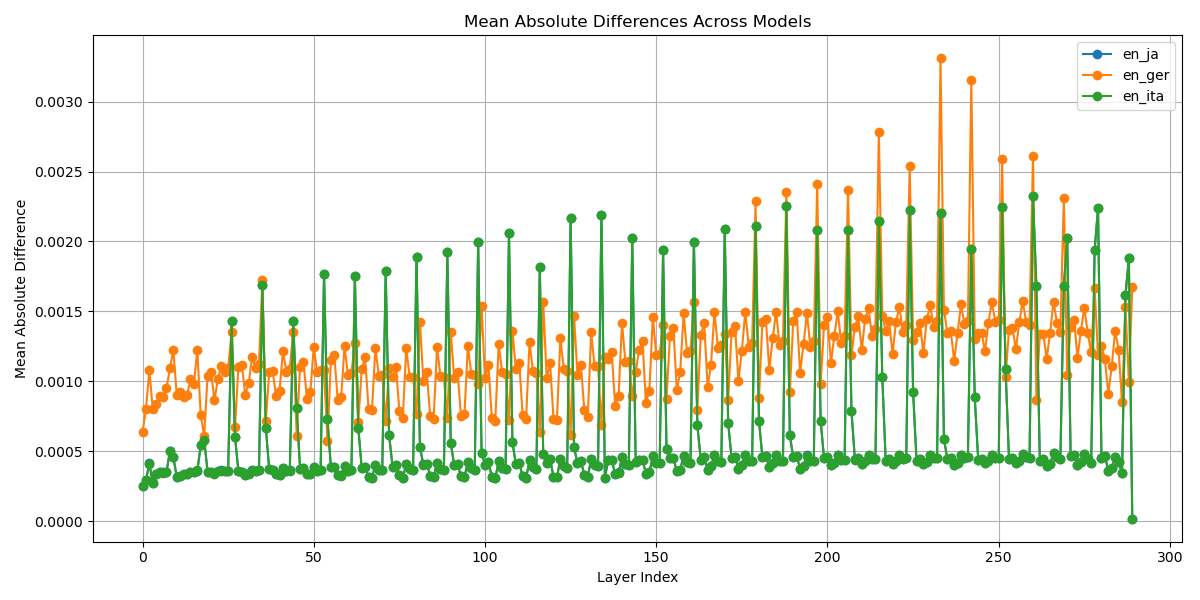
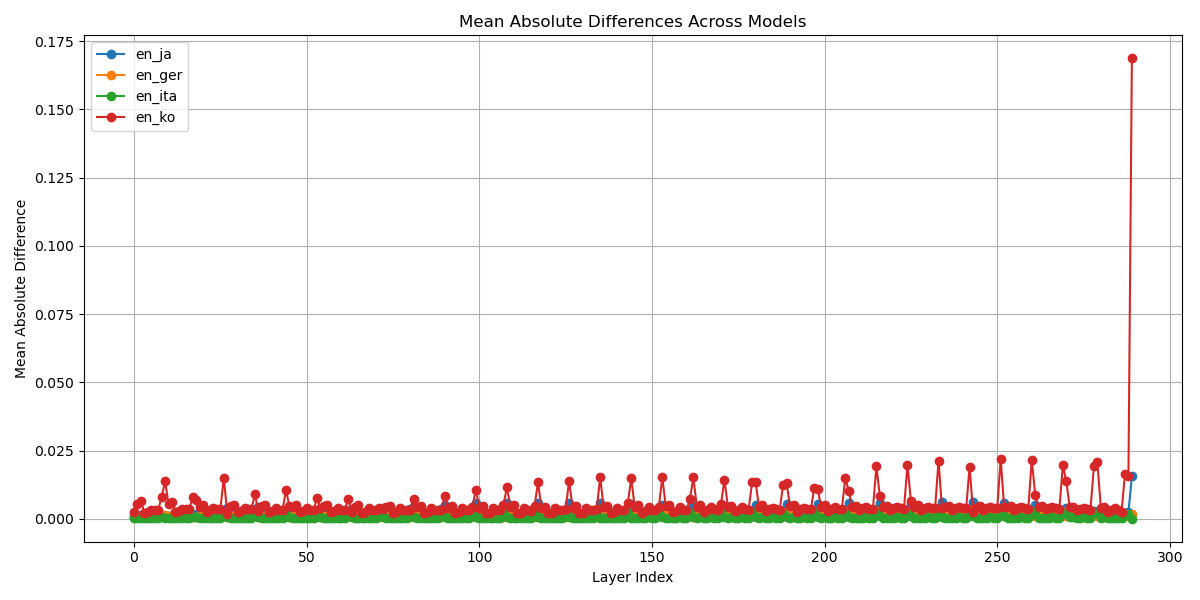
modify/llama_culc_sim

diff --git a/measure_similarities/llama3/test_llama3.py b/measure_similarities/llama3/test_llama3.py
@@ -1,6 +1,9 @@
 """ prototype experiment for GPU-node """
 
+import sys
+sys.path.append('..')
 from llama3_measure_similarity import *
+from measure_similarities import similarity_funcs
 
 import numpy as np
 import pandas as pd
@@ -11,7 +14,7 @@ state_dict_llama_original = llama_model_original.state_dict() # original(english
 state_dict_llama_ja = llama_model_ja.state_dict() # japanese
 state_dict_llama_ger = llama_model_ger.state_dict() # german
 state_dict_llama_ita = llama_model_ita.state_dict() # italian
-# state_dict_llama_chi = llama_model_chi.state_dict() # chinese
+state_dict_llama_ko = llama_model_ko.state_dict() # korean
 
 """ keysの名前が一致してそうか確認 """
 # print('--------------- keys lens ------------')
@@ -19,15 +22,18 @@ state_dict_llama_ita = llama_model_ita.state_dict() # italian
 # print(len(state_dict_llama_ja)) # 290
 # print(len(state_dict_llama_ger)) # 290
 # print(len(state_dict_llama_ita)) # 290
+# print(len(state_dict_llama_ko)) #
 # print('------- keys list -----------------')
 # print(state_dict_llama_original.keys())
 # print(state_dict_llama_ja.keys())
 # print(state_dict_llama_ger.keys())
 # print(state_dict_llama_ita.keys())
+# print(state_dict_llama_ko.keys())
 # print('----------- key agreements ----------')
 # print(state_dict_llama_original.keys() == state_dict_llama_ja.keys()) # True
 # print(state_dict_llama_original.keys() == state_dict_llama_ger.keys()) # True
 # print(state_dict_llama_original.keys() == state_dict_llama_ita.keys()) # True
+# print(state_dict_llama_original.keys() == state_dict_llama_ko.keys()) #
 
 weight_changes_llama = {} # 全体の結果の保存先
 
@@ -35,20 +41,23 @@ weight_changes_llama = {} # 全体の結果の保存先
 weight_changes_llama_en_ja = defaultdict(dict)
 weight_changes_llama_en_ger = defaultdict(dict)
 weight_changes_llama_en_ita = defaultdict(dict)
-# weight_changes_llama_en_chi = defaultdict(dict)
+weight_changes_llama_en_ko = defaultdict(dict)
 
 """ 類似度などを計算 """
 """ 英語->日本語 """
 # 類似度などを計算
-weight_changes_llama_en_ja_computed = compare_between_models(weight_changes_llama_en_ja, state_dict_llama_original, state_dict_llama_ja) # en_ja
+weight_changes_llama_en_ja_computed = similarity_funcs.compare_between_models(weight_changes_llama_en_ja, state_dict_llama_original, state_dict_llama_ja) # en_ja
 # 辞書に結果を格納
 weight_changes_llama['en_ja'] = weight_changes_llama_en_ja_computed
 """ 英語->ドイツ語 """
-weight_changes_llama_en_ger_computed = compare_between_models(weight_changes_llama_en_ger, state_dict_llama_original, state_dict_llama_ger) # en_du
+weight_changes_llama_en_ger_computed = similarity_funcs.compare_between_models(weight_changes_llama_en_ger, state_dict_llama_original, state_dict_llama_ger) # en_du
 weight_changes_llama['en_ger'] = weight_changes_llama_en_ger_computed
 """ 英語->イタリア語 """
-weight_changes_llama_en_ita_computed = compare_between_models(weight_changes_llama_en_ita, state_dict_llama_original, state_dict_llama_ita) # en_ita
+weight_changes_llama_en_ita_computed = similarity_funcs.compare_between_models(weight_changes_llama_en_ita, state_dict_llama_original, state_dict_llama_ita) # en_ita
 weight_changes_llama['en_ita'] = weight_changes_llama_en_ita_computed
+""" 英語->韓国語 """
+weight_changes_llama_en_ko_computed = similarity_funcs.compare_between_models(weight_changes_llama_en_ko, state_dict_llama_original, state_dict_llama_ko) # en_ko
+weight_changes_llama['en_ko'] = weight_changes_llama_en_ko_computed
 
 
 """ 可視化 """
@@ -58,24 +67,26 @@ weight_changes_llama['en_ita'] = weight_changes_llama_en_ita_computed
 en_ja_mean_diff = np.mean([values['mean_absolute_difference'] for values in weight_changes_llama['en_ja'].values()])
 en_ger_mean_diff = np.mean([values['mean_absolute_difference'] for values in weight_changes_llama['en_ger'].values()])
 en_ita_mean_diff = np.mean([values['mean_absolute_difference'] for values in weight_changes_llama['en_ita'].values()])
+en_ko_mean_diff = np.mean([values['mean_absolute_difference'] for values in weight_changes_llama['en_ko'].values()])
 
-# 各モデルのコサイン類似度を計算
+# 各モデル間のコサイン類似度の平均を計算
 en_ja_cos_sim = np.mean([values['cos_sim'] for values in weight_changes_llama['en_ja'].values()])
 en_ger_cos_sim = np.mean([values['cos_sim'] for values in weight_changes_llama['en_ger'].values()])
 en_ita_cos_sim = np.mean([values['cos_sim'] for values in weight_changes_llama['en_ita'].values()])
+en_ko_cos_sim = np.mean([values['cos_sim'] for values in weight_changes_llama['en_ko'].values()])
 
 # 結果をデータフレームにまとめる
 mean_diffs = pd.DataFrame({
-    'Model': ['en_ja', 'en_ger', 'en_ita'],
-    'Mean Absolute Difference': [en_ja_mean_diff, en_ger_mean_diff, en_ita_mean_diff],
-    'Cosine Similarity': [en_ja_cos_sim, en_ger_cos_sim, en_ita_cos_sim]
+    'Model': ['en_ja', 'en_ger', 'en_ita', 'en_ko'],
+    'Mean Absolute Difference': [en_ja_mean_diff, en_ger_mean_diff, en_ita_mean_diff, en_ko_mean_diff],
+    'Cosine Similarity': [en_ja_cos_sim, en_ger_cos_sim, en_ita_cos_sim, en_ko_cos_sim]
 })
 
 # 可視化（平均絶対差）
 plt.figure(figsize=(12, 5))
 
 plt.subplot(1, 2, 1)
-plt.bar(mean_diffs['Model'], mean_diffs['Mean Absolute Difference'], color=['blue', 'orange', 'red'])
+plt.bar(mean_diffs['Model'], mean_diffs['Mean Absolute Difference'], color=['blue', 'orange', 'red', 'green'])
 plt.xlabel('Model')
 plt.ylabel('Mean Absolute Difference')
 plt.title('Comparison of Mean Absolute Differences')
@@ -84,7 +95,7 @@ plt.grid(axis='y')
 
 # 可視化（コサイン類似度）
 plt.subplot(1, 2, 2)
-plt.bar(mean_diffs['Model'], mean_diffs['Cosine Similarity'], color=['blue', 'orange', 'red'])
+plt.bar(mean_diffs['Model'], mean_diffs['Cosine Similarity'], color=['blue', 'orange', 'red', 'green'])
 plt.xlabel('Model')
 plt.ylabel('Cosine Similarity')
 plt.title('Comparison of Cosine Similarity')
@@ -94,7 +105,7 @@ plt.grid(axis='y')
 plt.tight_layout()  # レイアウトを調整
 # plt.show()
 # グラフをファイルに保存 (PNG形式)
-plt.savefig("/home/s2410121/proj_LA/measure_similarities/barplot.png")
+plt.savefig("/home/s2410121/proj_LA/measure_similarities/llama3/llama3_barplot.png")
 plt.close()
 
 """ layerごとの絶対差の変遷のplot """
@@ -104,6 +115,7 @@ mean_diffs = {
     'en_ja': [values['mean_absolute_difference'] for values in weight_changes_llama['en_ja'].values()],
     'en_ger': [values['mean_absolute_difference'] for values in weight_changes_llama['en_ger'].values()],
     'en_ita': [values['mean_absolute_difference'] for values in weight_changes_llama['en_ita'].values()],
+    'en_ko': [values['mean_absolute_difference'] for values in weight_changes_llama['en_ko'].values()],
 }
 
 # 各リストの最小の長さを取得
@@ -129,5 +141,5 @@ plt.grid()
 plt.tight_layout()
 # plt.show()
 # グラフをファイルに保存 (PNG形式)
-plt.savefig("/home/s2410121/proj_LA/measure_similarities/lineplot.png")
+plt.savefig("/home/s2410121/proj_LA/measure_similarities/llama3/llama3_lineplot.png")
 plt.close()

diff --git a/measure_similarities/llama3/llama3_measure_similarity.py b/measure_similarities/llama3/llama3_measure_similarity.py
@@ -5,8 +5,9 @@ memo:
 ・google colabですでに同じ検証をしている: https://colab.research.google.com/drive/1h_wSGMWQRtcdFM88tgZdc3qLQjtDSN1u#scrollTo=8TbA3b1uqPeW
 """
 
-
-from similarity_funcs import *
+import sys
+sys.path.append('..')
+from measure_similarities import similarity_funcs
 
 import torch
 import transformers
@@ -19,11 +20,12 @@ from transformers import AutoModel, AutoTokenizer
 
 # モデル指定
 llama_model_original_name = "meta-llama/Meta-Llama-3-8B" # en
-llama_model_ja_name = "lightblue/suzume-llama-3-8B-japanese" # ja
-# llama_model_ja_name = "tokyotech-llm/Llama-3-Swallow-8B-v0.1" # ja
+# llama_model_ja_name = "lightblue/suzume-llama-3-8B-japanese" # ja
+llama_model_ja_name = "tokyotech-llm/Llama-3-Swallow-8B-v0.1" # ja
 llama_model_ger_name = "DiscoResearch/Llama3-DiscoLeo-Instruct-8B-v0.1" # ger
 llama_model_ita_name = "DeepMount00/Llama-3-8b-Ita" # ita
-# llama_model_ko_name = ""
+# llama_model_ko_name = "beomi/Llama-3-Open-Ko-8B" # korean
+llama_model_ko_name = "beomi/Llama-3-KoEn-8B" # korean: enの基盤モデルにen, ko両方のテキストでkoreanをL2として追加学習済み
 # llama_model_chi_name = "shareAI/llama3-Chinese-chat-8b" # chi : <- OSError: shareAI/llama3-Chinese-chat-8b does not appear to have a file named config.json. Checkout 'https://huggingface.co/shareAI/llama3-Chinese-chat-8b/tree/main' for available files.
 
 # モデルのロード
@@ -31,7 +33,7 @@ llama_model_original = AutoModel.from_pretrained(llama_model_original_name)
 llama_model_ja = AutoModel.from_pretrained(llama_model_ja_name)
 llama_model_ger = AutoModel.from_pretrained(llama_model_ger_name)
 llama_model_ita = AutoModel.from_pretrained(llama_model_ita_name)
-# llama_model_chi = AutoModel.from_pretrained(llama_model_chi_name)
+llama_model_ko = AutoModel.from_pretrained(llama_model_ko_name)
 
 """ それぞれのモデルのparametersを取得 """
 
@@ -40,7 +42,7 @@ state_dict_llama_original = llama_model_original.state_dict() # original(english
 state_dict_llama_ja = llama_model_ja.state_dict() # japanese
 state_dict_llama_ger = llama_model_ger.state_dict() # german
 state_dict_llama_ita = llama_model_ita.state_dict() # italian
-# state_dict_llama_chi = llama_model_chi.state_dict() # chinese
+state_dict_llama_ko = llama_model_ko.state_dict() # korean
 
 # 重みの比較結果を保存する辞書
 weight_changes_llama = {} # 全体の結果の保存先
@@ -49,22 +51,26 @@ weight_changes_llama = {} # 全体の結果の保存先
 weight_changes_llama_en_ja = defaultdict(dict)
 weight_changes_llama_en_ger = defaultdict(dict)
 weight_changes_llama_en_ita = defaultdict(dict)
-weight_changes_llama_en_chi = defaultdict(dict)
+weight_changes_llama_en_ko = defaultdict(dict)
 
 """ 類似度などを計算 """
 """ 英語->日本語 """
 # 類似度などを計算
-weight_changes_llama_en_ja_computed = compare_between_models(weight_changes_llama_en_ja, state_dict_llama_original, state_dict_llama_ja) # en_ja
+weight_changes_llama_en_ja_computed = similarity_funcs.compare_between_models(weight_changes_llama_en_ja, state_dict_llama_original, state_dict_llama_ja) # en_ja
 # 辞書に結果を格納
 weight_changes_llama['en_ja'] = weight_changes_llama_en_ja_computed
 """ 英語->ドイツ語 """
-weight_changes_llama_en_ger_computed = compare_between_models(weight_changes_llama_en_ger, state_dict_llama_original, state_dict_llama_ger) # en_du
+weight_changes_llama_en_ger_computed = similarity_funcs.compare_between_models(weight_changes_llama_en_ger, state_dict_llama_original, state_dict_llama_ger) # en_du
 weight_changes_llama['en_ger'] = weight_changes_llama_en_ger_computed
 """ 英語->イタリア語 """
-weight_changes_llama_en_ita_computed = compare_between_models(weight_changes_llama_en_ita, state_dict_llama_original, state_dict_llama_ita) # en_ita
+weight_changes_llama_en_ita_computed = similarity_funcs.compare_between_models(weight_changes_llama_en_ita, state_dict_llama_original, state_dict_llama_ita) # en_ita
 weight_changes_llama['en_ita'] = weight_changes_llama_en_ita_computed
+""" 英語->韓国語 """
+weight_changes_llama_en_ko_computed = similarity_funcs.compare_between_models(weight_changes_llama_en_ko, state_dict_llama_original, state_dict_llama_ko) # en_ko
+weight_changes_llama['en_ko'] = weight_changes_llama_en_ita_computed
 
 # 辞書に結果を格納
 weight_changes_llama['en_ja'] = weight_changes_llama_en_ja_computed
 weight_changes_llama['en_ger'] = weight_changes_llama_en_ger_computed
 weight_changes_llama['en_ita'] = weight_changes_llama_en_ita_computed
+weight_changes_llama['en_ko'] = weight_changes_llama_en_ko_computed

diff --git a/measure_similarities/llama3/visualize_sim_llama3.py b/measure_similarities/llama3/visualize_sim_llama3.py
@@ -7,30 +7,33 @@ import pandas as pd
 import matplotlib.pyplot as plt
 
 
+""" 可視化 """
 """ bar plot """
 
 # 各モデルの平均絶対差を計算
 en_ja_mean_diff = np.mean([values['mean_absolute_difference'] for values in weight_changes_llama['en_ja'].values()])
 en_ger_mean_diff = np.mean([values['mean_absolute_difference'] for values in weight_changes_llama['en_ger'].values()])
 en_ita_mean_diff = np.mean([values['mean_absolute_difference'] for values in weight_changes_llama['en_ita'].values()])
+en_ita_mean_diff = np.mean([values['mean_absolute_difference'] for values in weight_changes_llama['en_ko'].values()])
 
 # 各モデルのコサイン類似度を計算
 en_ja_cos_sim = np.mean([values['cos_sim'] for values in weight_changes_llama['en_ja'].values()])
 en_ger_cos_sim = np.mean([values['cos_sim'] for values in weight_changes_llama['en_ger'].values()])
 en_ita_cos_sim = np.mean([values['cos_sim'] for values in weight_changes_llama['en_ita'].values()])
+en_ko_cos_sim = np.mean([values['cos_sim'] for values in weight_changes_llama['en_ko'].values()])
 
 # 結果をデータフレームにまとめる
 mean_diffs = pd.DataFrame({
-    'Model': ['en_ja', 'en_ger', 'en_ita'],
-    'Mean Absolute Difference': [en_ja_mean_diff, en_ger_mean_diff, en_ita_mean_diff],
-    'Cosine Similarity': [en_ja_cos_sim, en_ger_cos_sim, en_ita_cos_sim]
+    'Model': ['en_ja', 'en_ger', 'en_ita', 'en_ko'],
+    'Mean Absolute Difference': [en_ja_mean_diff, en_ger_mean_diff, en_ita_mean_diff, en_ko_mean_diff],
+    'Cosine Similarity': [en_ja_cos_sim, en_ger_cos_sim, en_ita_cos_sim, en_ko_cos_sim]
 })
 
 # 可視化（平均絶対差）
 plt.figure(figsize=(12, 5))
 
 plt.subplot(1, 2, 1)
-plt.bar(mean_diffs['Model'], mean_diffs['Mean Absolute Difference'], color=['blue', 'orange', 'red'])
+plt.bar(mean_diffs['Model'], mean_diffs['Mean Absolute Difference'], color=['blue', 'orange', 'red', 'green'])
 plt.xlabel('Model')
 plt.ylabel('Mean Absolute Difference')
 plt.title('Comparison of Mean Absolute Differences')
@@ -39,7 +42,7 @@ plt.grid(axis='y')
 
 # 可視化（コサイン類似度）
 plt.subplot(1, 2, 2)
-plt.bar(mean_diffs['Model'], mean_diffs['Cosine Similarity'], color=['blue', 'orange', 'red'])
+plt.bar(mean_diffs['Model'], mean_diffs['Cosine Similarity'], color=['blue', 'orange', 'red', 'green'])
 plt.xlabel('Model')
 plt.ylabel('Cosine Similarity')
 plt.title('Comparison of Cosine Similarity')
@@ -49,7 +52,7 @@ plt.grid(axis='y')
 plt.tight_layout()  # レイアウトを調整
 # plt.show()
 # グラフをファイルに保存 (PNG形式)
-plt.savefig("/home/s2410121/proj_LA/measure_similarities/barplot.png")
+plt.savefig("/home/s2410121/proj_LA/measure_similarities/llama3/llama3_barplot.png")
 plt.close()
 
 """ layerごとの絶対差の変遷のplot """
@@ -59,6 +62,7 @@ mean_diffs = {
     'en_ja': [values['mean_absolute_difference'] for values in weight_changes_llama['en_ja'].values()],
     'en_ger': [values['mean_absolute_difference'] for values in weight_changes_llama['en_ger'].values()],
     'en_ita': [values['mean_absolute_difference'] for values in weight_changes_llama['en_ita'].values()],
+    'en_ko': [values['mean_absolute_difference'] for values in weight_changes_llama['en_ko'].values()],
 }
 
 # 各リストの最小の長さを取得
@@ -84,5 +88,5 @@ plt.grid()
 plt.tight_layout()
 # plt.show()
 # グラフをファイルに保存 (PNG形式)
-plt.savefig("/home/s2410121/proj_LA/measure_similarities/lineplot.png")
+plt.savefig("/home/s2410121/proj_LA/measure_similarities/llama3/llama3_lineplot.png")
 plt.close()

diff --git a/measure_similarities/similarity_funcs.py b/measure_similarities/similarity_funcs.py
@@ -42,7 +42,9 @@ def cos_sim(tensor1: torch.Tensor, tensor2: torch.Tensor) -> float:
 差の絶対値
 """
 def mean_abs_diff(v1, v2):
-  return torch.abs(torch.tensor(v1) - torch.tensor(v2)).mean().item()
+    if not isinstance(v1, torch.Tensor) or not isinstance(v2, torch.Tensor):
+        raise ValueError('Inputs must be torch.Tensors')
+    return torch.abs(v1 - v2).mean().item()
 
 """
 align_tensor_sizes(tensor1: torch.Tensor, tensor2: torch.Tensor):
